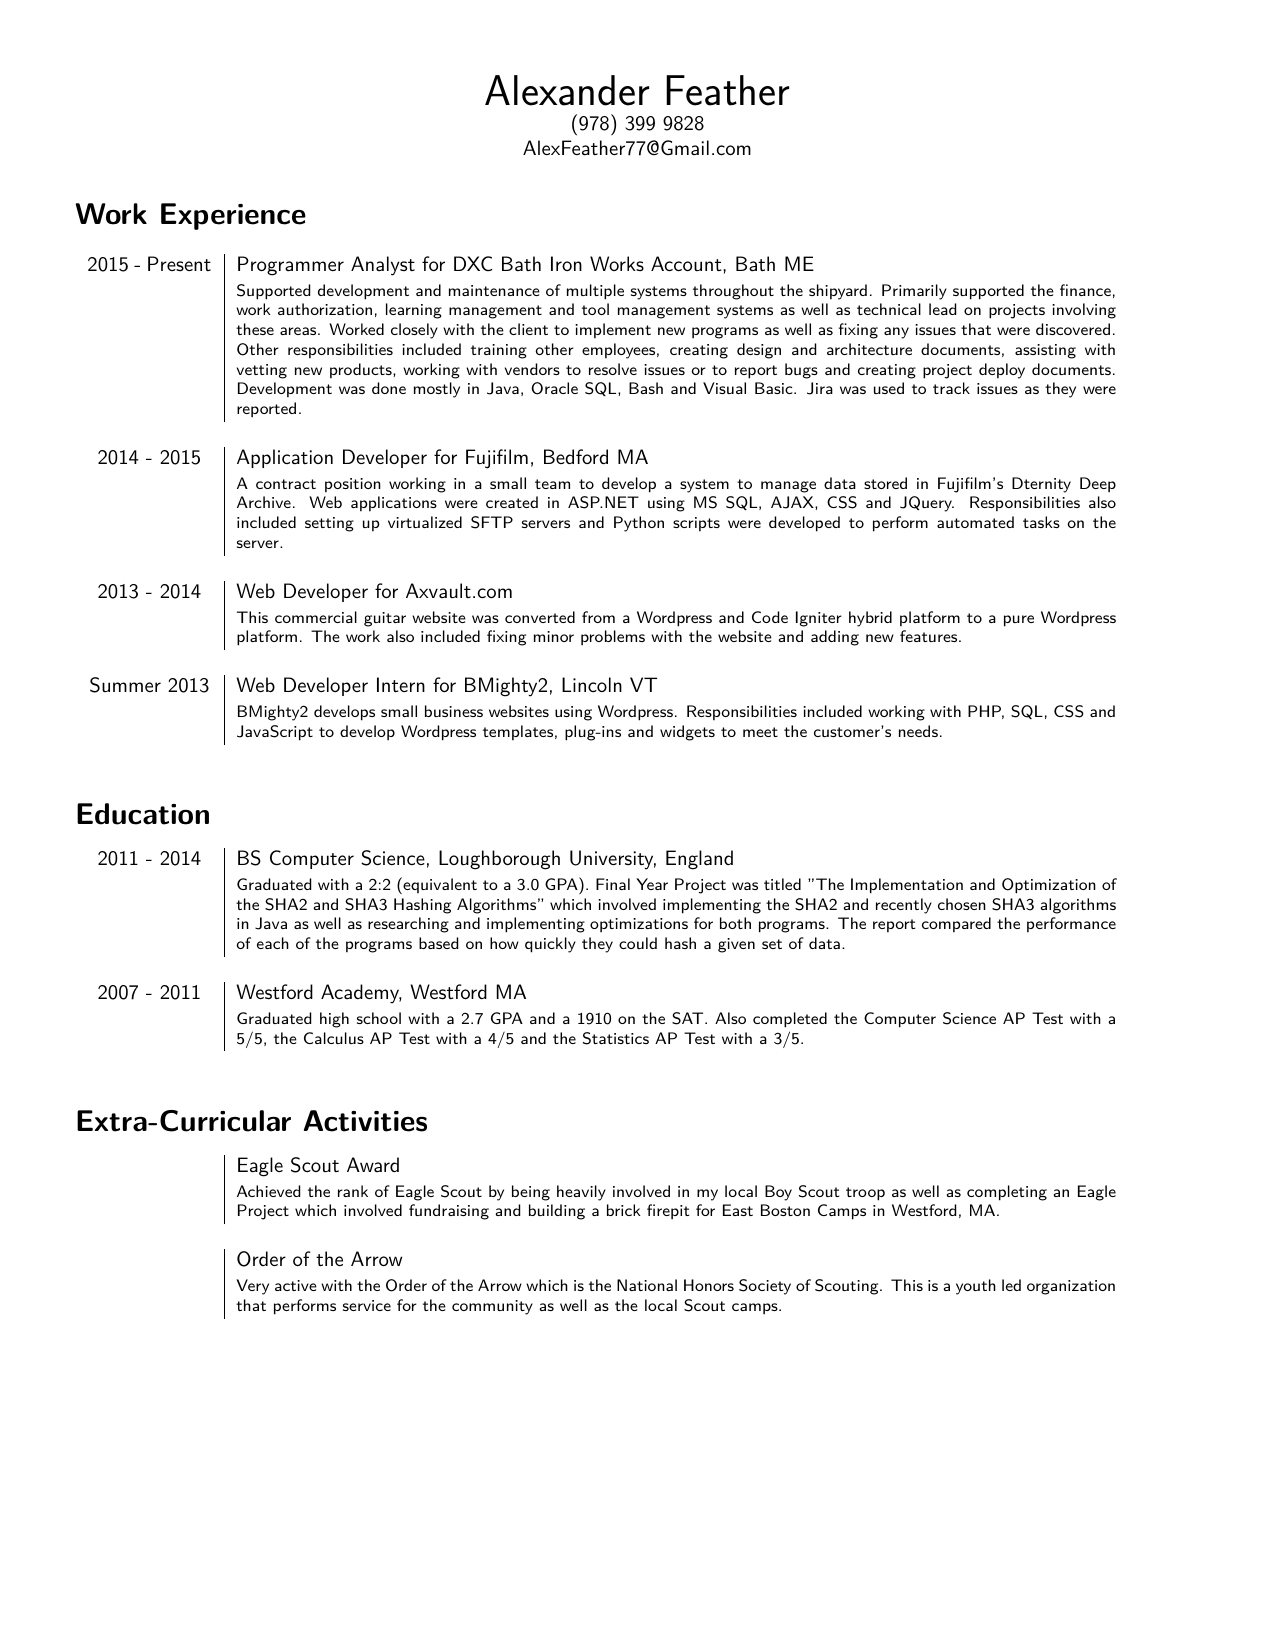
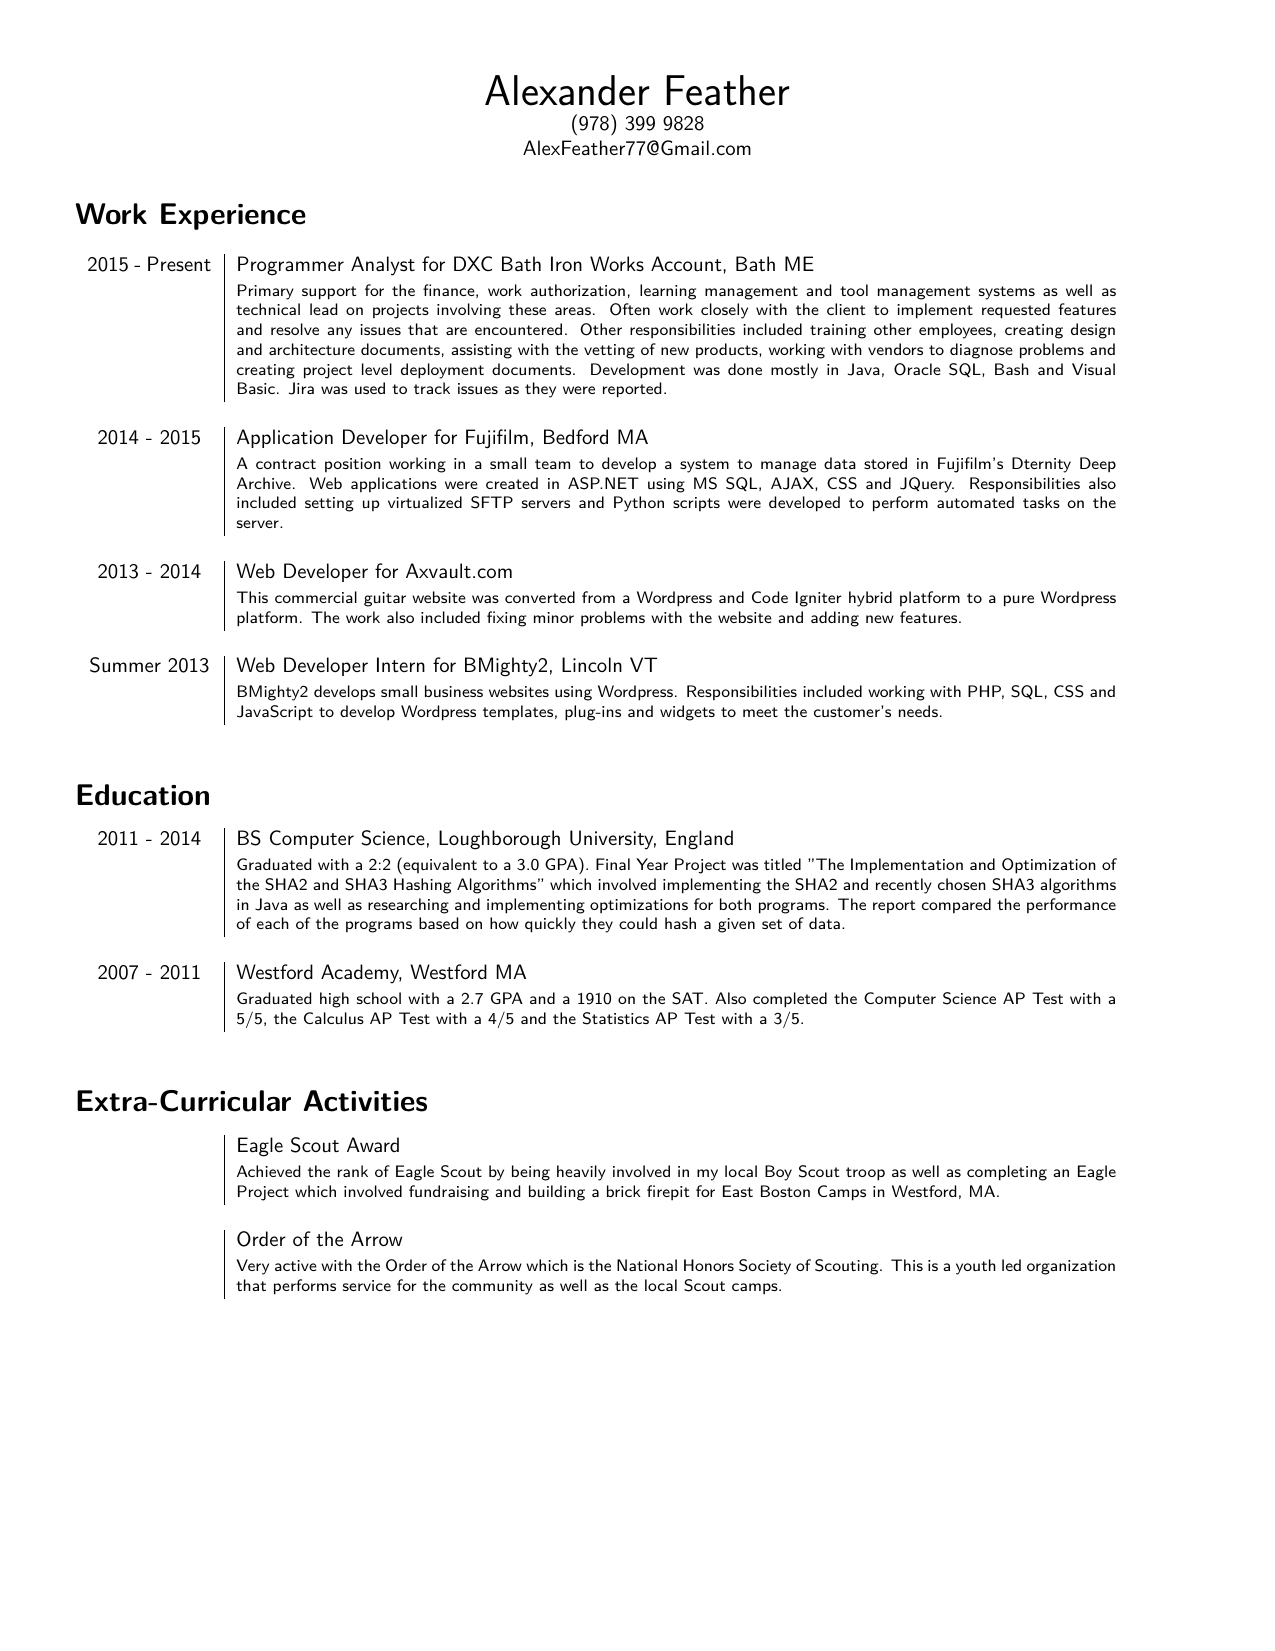
Updated Resume Files

diff --git a/Resume.tex b/Resume.tex
@@ -12,7 +12,7 @@
 
 \section*{\fontfamily{lmss}\selectfont Work Experience}
 \begin{tabular}{p{2.1cm}|p{14.9cm}}
-	2015 - Present & Programmer Analyst for DXC Bath Iron Works Account, Bath ME\\&\footnotesize{Supported development and maintenance of multiple systems throughout the shipyard. Primarily supported the finance, work authorization, learning management and tool management systems as well as technical lead on projects involving these areas. Worked closely with the client to implement new programs as well as fixing any issues that were discovered. Other responsibilities included training other employees, creating design and architecture documents, assisting with vetting new products, working with vendors to resolve issues or to report bugs and creating project deploy documents. Development was done mostly in Java, Oracle SQL, Bash and Visual Basic. Jira was used to track issues as they were reported.}\\\multicolumn{2}{c}{} \\
+	2015 - Present & Programmer Analyst for DXC Bath Iron Works Account, Bath ME\\&\footnotesize{Primary support for the finance, work authorization, learning management and tool management systems as well as technical lead on projects involving these areas. Often work closely with the client to implement requested features and resolve any issues that are encountered. Other responsibilities included training other employees, creating design and architecture documents, assisting with the vetting of new products, working with vendors to diagnose problems and creating project level deployment documents. Development was done mostly in Java, Oracle SQL, Bash and Visual Basic. Jira was used to track issues as they were reported.}\\\multicolumn{2}{c}{} \\
 	\centering 2014 - 2015 & Application Developer for Fujifilm, Bedford MA\\&\footnotesize{A contract position working in a small team to develop a system to manage data stored in Fujifilm's Dternity Deep Archive. Web applications were created in ASP.NET using MS SQL, AJAX, CSS and JQuery. Responsibilities also included setting up virtualized SFTP servers and Python scripts were developed to perform automated tasks on the server.}\\\multicolumn{2}{c}{} \\
 	\centering 2013 - 2014 & Web Developer for Axvault.com\\&\footnotesize{This commercial guitar website was converted from a Wordpress and Code Igniter hybrid platform to a pure Wordpress platform. The work also included fixing minor problems with the website and adding new features.}\\\multicolumn{2}{c}{} \\
 	\centering Summer 2013 & Web Developer Intern for BMighty2, Lincoln VT\\&\footnotesize{BMighty2 develops small business websites using Wordpress. Responsibilities included working with PHP, SQL, CSS and JavaScript to develop Wordpress templates, plug-ins and widgets to meet the customer's needs.}\\\multicolumn{2}{c}{} \\
@@ -33,4 +33,4 @@
 
 
 
-\end{document}
+\end{document}areas. 
